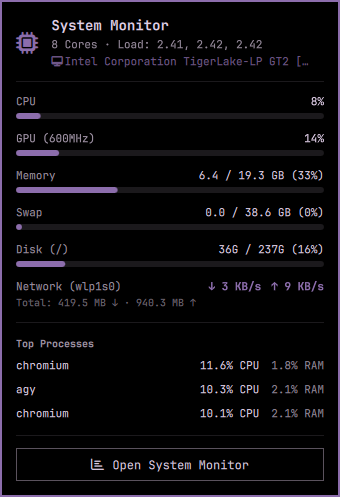
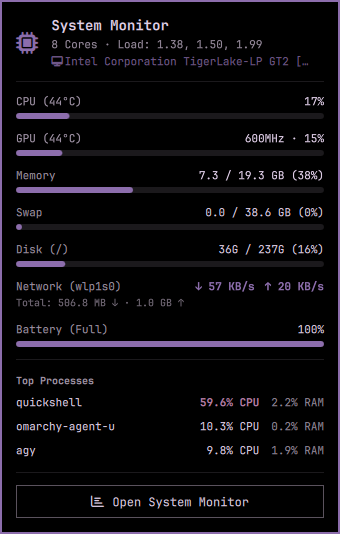
Add CPU & GPU temperature tracking and battery status (v1.2.0)

Changed region(s): [[0.0, 0.1811, 1.0, 1.0], [0.1471, 0.0302, 0.9118, 0.1509], [0.0294, 0.0604, 0.1176, 0.1207]]

diff --git a/Panel.qml b/Panel.qml
@@ -135,14 +135,21 @@ Panel {
   }
 
   property int cpuPercent: 0
+  property int cpuTemp: 0
   property real prevCpuIdle: 0
   property real prevCpuTotal: 0
 
   property int gpuPercent: 0
+  property int gpuTemp: 0
   property string gpuName: "GPU"
   property string gpuClock: ""
   property real prevGpuRc6: 0
   property real prevGpuTime: 0
+
+  property bool hasBattery: false
+  property int batteryPercent: 0
+  property string batteryStatus: ""
+  property string batteryPowerW: "0.0"
 
   property string memUsedGb: "0.0"
   property string memTotalGb: "0.0"
@@ -227,6 +234,13 @@ Panel {
       diskTotal = data.disk_total || "0G"
       diskPercent = data.disk_pct || 0
 
+      cpuTemp = data.cpu_temp || 0
+      gpuTemp = data.gpu_temp || 0
+      hasBattery = data.has_battery || false
+      batteryPercent = data.battery_pct !== undefined ? Math.round(data.battery_pct) : 0
+      batteryStatus = data.battery_status || ""
+      batteryPowerW = data.battery_power_w !== undefined ? String(data.battery_power_w) : "0.0"
+
       loadStr = (data.load_1 || 0).toFixed(2) + ", " + (data.load_5 || 0).toFixed(2) + ", " + (data.load_15 || 0).toFixed(2)
       cores = data.cores || 1
       topProcs = data.top_procs || []
@@ -270,7 +284,7 @@ Panel {
     text: "\uf2db"
     labelText: root.showPercentage && !root.vertical ? (root.cpuPercent + "%") : ""
     slotSize: root.showPercentage && !root.vertical ? Style.bar.iconSlot * 2 : Style.bar.iconSlot
-    tooltipText: strings.t("sysmon.tooltip").arg(root.cpuPercent).arg(root.gpuPercent).arg(root.memPercent) + " (" + root.memUsedGb + "G / " + root.memTotalGb + "G)\n↓ " + root.netDownStr + "  ↑ " + root.netUpStr
+    tooltipText: strings.t("sysmon.tooltip").arg(root.cpuPercent).arg(root.gpuPercent).arg(root.memPercent).arg(root.cpuTemp).arg(root.gpuTemp) + " (" + root.memUsedGb + "G / " + root.memTotalGb + "G)\n↓ " + root.netDownStr + "  ↑ " + root.netUpStr + (root.hasBattery ? ("\nBattery: " + root.batteryPercent + "% (" + root.batteryStatus + ")") : "")
     active: root.opened || root.cpuPercent >= 85 || root.gpuPercent >= 85
     activeColor: (root.cpuPercent >= 85 || root.gpuPercent >= 85) ? root.urgentColor : root.accentColor
     onPressed: function(b) {
@@ -362,15 +376,15 @@ Panel {
 
         // Gauges
         MetricBar {
-          label: strings.t("sysmon.cpu")
+          label: strings.t("sysmon.cpu") + (root.cpuTemp > 0 ? (" (" + root.cpuTemp + "°C)") : "")
           valueText: root.cpuPercent + "%"
           fraction: root.cpuPercent / 100.0
           urgentThreshold: 0.85
         }
 
         MetricBar {
-          label: strings.t("sysmon.gpu") + (root.gpuClock ? (" (" + root.gpuClock + ")") : "")
-          valueText: root.gpuPercent + "%"
+          label: strings.t("sysmon.gpu") + (root.gpuTemp > 0 ? (" (" + root.gpuTemp + "°C)") : "")
+          valueText: (root.gpuClock ? (root.gpuClock + " · ") : "") + root.gpuPercent + "%"
           fraction: root.gpuPercent / 100.0
           urgentThreshold: 0.85
         }
@@ -448,6 +462,16 @@ Panel {
             font.family: root.fontFamily
             font.pixelSize: Style.font.bodySmall - 1
           }
+        }
+
+        // Battery Monitor Row
+        MetricBar {
+          visible: root.hasBattery
+          label: strings.t("sysmon.battery") + (root.batteryStatus ? (" (" + root.batteryStatus + ")") : "")
+          valueText: (Number(root.batteryPowerW) > 0 ? (root.batteryPowerW + "W · ") : "") + root.batteryPercent + "%"
+          fraction: root.batteryPercent / 100.0
+          urgentThreshold: 0.20
+          invertUrgent: true
         }
 
         PanelSeparator { foreground: root.foreground }
@@ -571,6 +595,8 @@ Panel {
     property string valueText: ""
     property real fraction: 0.0
     property real urgentThreshold: 0.85
+    property bool invertUrgent: false
+    readonly property bool isUrgent: (!invertUrgent && fraction >= urgentThreshold) || (invertUrgent && fraction <= urgentThreshold)
 
     width: parent ? parent.width : 0
     spacing: Style.space(4)
@@ -593,10 +619,10 @@ Panel {
       Text {
         textFormat: Text.PlainText
         text: valueText
-        color: fraction >= urgentThreshold ? root.urgentColor : root.foreground
+        color: isUrgent ? root.urgentColor : root.foreground
         font.family: root.fontFamily
         font.pixelSize: Style.font.bodySmall
-        font.bold: fraction >= urgentThreshold
+        font.bold: isUrgent
         anchors.verticalCenter: parent.verticalCenter
       }
     }
@@ -613,7 +639,7 @@ Panel {
         anchors.verticalCenter: track.verticalCenter
         height: track.height
         radius: track.radius
-        color: fraction >= urgentThreshold ? root.urgentColor : root.accentColor
+        color: isUrgent ? root.urgentColor : root.accentColor
         width: Math.max(track.height, Math.min(track.width, track.width * Math.max(0, Math.min(1, fraction))))
 
         Behavior on width {

diff --git a/README.md b/README.md
@@ -1,11 +1,13 @@
 # System Monitor for Omarchy
 
-Real-time CPU, GPU, memory, disk, and network monitoring status bar widget and popup panel for the Omarchy shell.
+Real-time CPU & GPU thermals, battery, memory, disk, and network monitoring status bar widget and popup panel for the Omarchy shell.
 
 ![System Monitor Preview](preview.png)
 
 ## Features
 
+- Real-time CPU & GPU temperature tracking (°C)
+- Battery charge status, percentage, and live power draw (W)
 - Real-time CPU, GPU (Intel, AMD, NVIDIA), RAM, Swap, and root filesystem usage gauges
 - Real-time Network bandwidth monitoring (download/upload transfer rates & totals)
 - Native GPU telemetry: Intel RC6 residency & clock frequency, AMD DRM sysfs, and NVIDIA SMI
